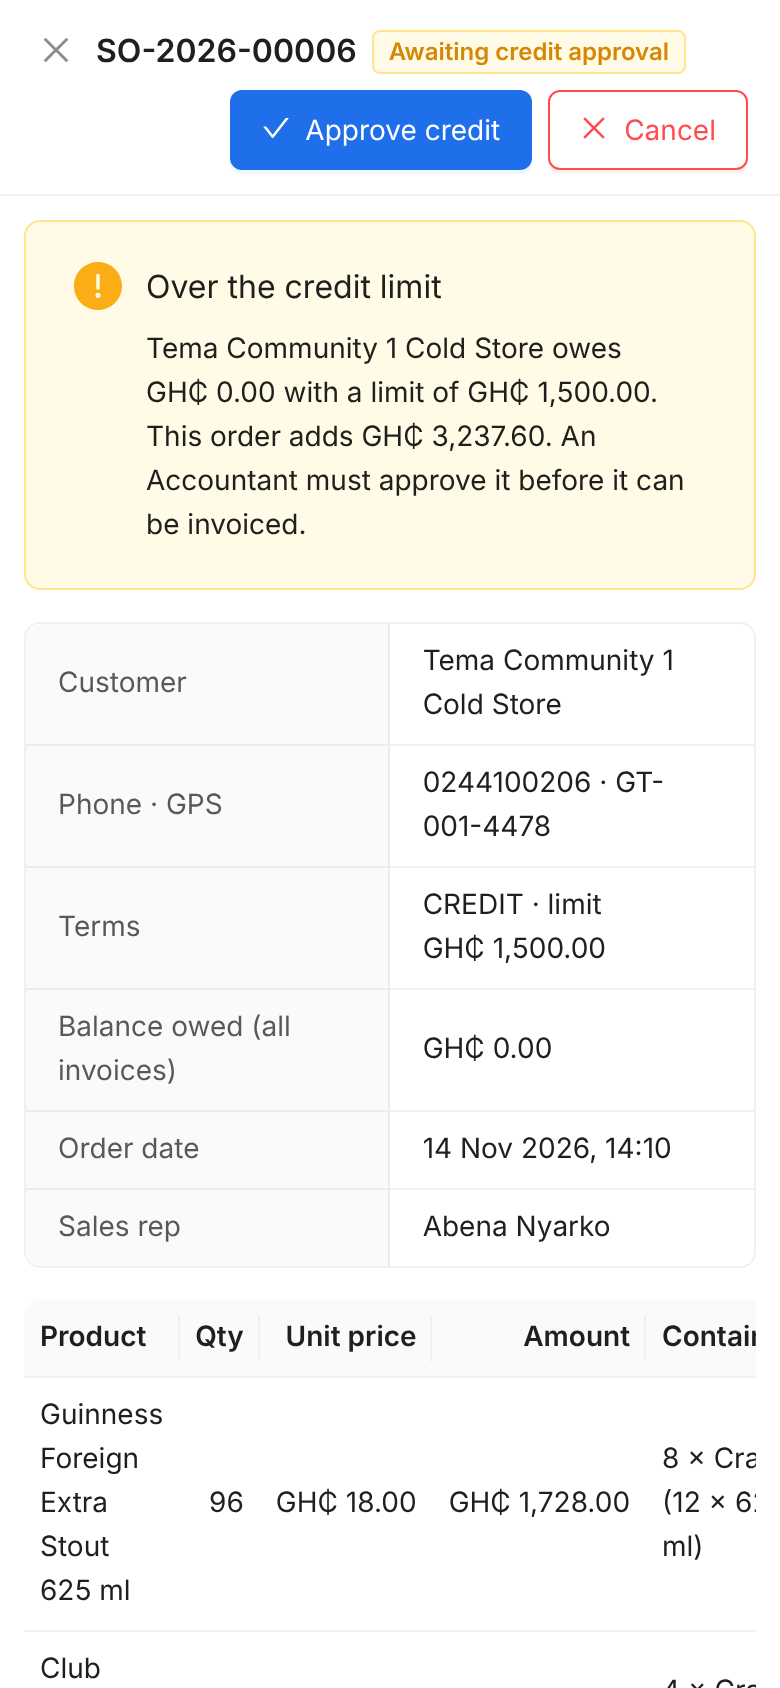
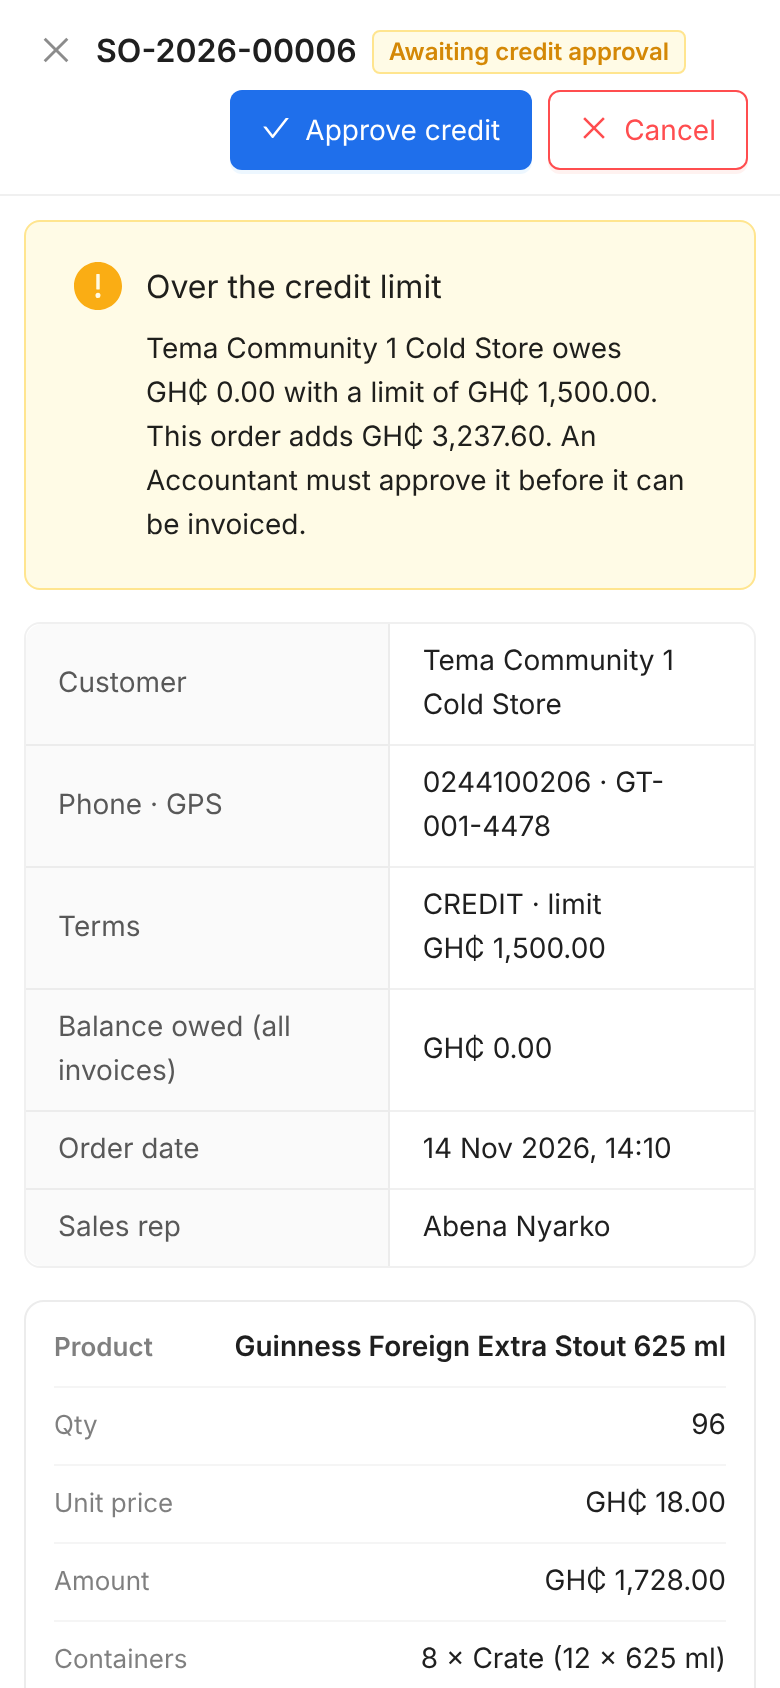
Tables become cards on phones
- components/ResponsiveTable.tsx wraps Ant Design's Table and labels every cell with
  its column title; all 19 screens with tables use it
- On phones (under 576 px) each row is a card: the first value is the heading and every
  other value sits on its own labelled line; action buttons sit at the bottom right;
  fields (delivery quantities, stocktake counts, order lines) fit inside the cards;
  expanded rows and totals rows read as part of the card
- Search boxes and filter rows fit the screen
- Tablets and laptops keep ordinary tables

diff --git a/frontend/src/index.css b/frontend/src/index.css
@@ -52,6 +52,11 @@ body { margin: 0; background: #f5f6f8; }
   /* Totals boxes fill the width instead of floating right */
   .ant-descriptions { max-width: 100% !important; }
 
+  /* Search boxes and filter rows fit the screen */
+  .ant-input-search, .ant-input-group-wrapper, .ant-input-affix-wrapper { max-width: 100%; }
+  .ant-card-body > .ant-space, .ant-card-body > div > .ant-space { flex-wrap: wrap; max-width: 100%; }
+  .ant-space-item { max-width: 100%; min-width: 0; }
+
   /* Rows of fields inside a panel (a product and its quantity) wrap onto two lines */
   .ant-drawer-body .ant-space-horizontal { flex-wrap: wrap; }
   .ant-drawer-body .ant-select,
@@ -67,3 +72,67 @@ body { margin: 0; background: #f5f6f8; }
 /* Panels waiting off-screen must not widen the page either. "clip" (unlike
    "hidden") doesn't turn the page into a scroll box, so the sticky header still works. */
 html, body { overflow-x: hidden; overflow-x: clip; }
+
+/* ------------------------------------------------- tables become cards on phones
+   Each row is a card; each value sits on its own line, labelled with its column
+   title (data-label, added by components/ResponsiveTable.tsx). */
+@media (max-width: 575px) {
+  .rt-cards .ant-table { background: transparent; }
+  .rt-cards .ant-table-thead { display: none; }
+  .rt-cards .ant-table-content,
+  .rt-cards .ant-table-body { overflow: visible !important; }
+  .rt-cards table { min-width: 0 !important; width: 100% !important; table-layout: auto !important; }
+  .rt-cards table, .rt-cards tbody, .rt-cards tfoot { display: block; }
+  .rt-cards colgroup { display: none; }
+
+  .rt-cards tr.ant-table-row,
+  .rt-cards .ant-table-summary tr {
+    display: block;
+    background: #fff;
+    border: 1px solid #ececec;
+    border-radius: 10px;
+    padding: 4px 14px;
+    margin-bottom: 10px;
+  }
+  .rt-cards tr.ant-table-row > td,
+  .rt-cards .ant-table-summary td {
+    display: flex !important;
+    align-items: center;
+    justify-content: space-between;
+    gap: 12px;
+    padding: 8px 0 !important;
+    border-bottom: 1px solid #f5f5f5 !important;
+    text-align: right !important;
+    white-space: normal;
+    min-width: 0 !important;
+    width: auto !important;
+    background: transparent !important;
+  }
+  .rt-cards tr.ant-table-row > td:last-child { border-bottom: none !important; }
+  .rt-cards tr.ant-table-row > td[data-label]:not([data-label=""])::before {
+    content: attr(data-label);
+    color: rgba(0, 0, 0, 0.5);
+    font-size: 13px;
+    text-align: left;
+    flex: 0 0 auto;
+    max-width: 45%;
+  }
+  /* The first value (order number, product, customer …) is the card's heading */
+  .rt-cards tr.ant-table-row > td:first-child { font-weight: 600; }
+  /* Cells with no column title (edit buttons, actions) sit at the right */
+  .rt-cards tr.ant-table-row > td[data-label=""] { justify-content: flex-end; }
+  .rt-cards tr.ant-table-row > td:empty { display: none !important; }
+  /* Fields inside a card (quantities on a delivery, counts on a stocktake) */
+  .rt-cards tr.ant-table-row > td .ant-input-number,
+  .rt-cards tr.ant-table-row > td .ant-select { flex: 0 1 60%; min-width: 0; }
+  .rt-cards tr.ant-table-row > td .ant-form-item { margin: 0; flex: 0 1 60%; }
+  .rt-cards tr.ant-table-row > td .ant-form-item .ant-input-number,
+  .rt-cards tr.ant-table-row > td .ant-form-item .ant-select { width: 100% !important; }
+  /* Expanded rows (write-off details) read as the bottom of their card */
+  .rt-cards tr.ant-table-expanded-row { display: block; margin: -10px 0 10px; }
+  .rt-cards tr.ant-table-expanded-row > td { display: block; padding: 10px 14px !important; }
+  .rt-cards .ant-table-row-expand-icon-cell::before { content: 'Details' !important; }
+  .rt-cards .ant-table-tbody > tr.ant-table-placeholder { display: block; }
+  .rt-cards .ant-table-tbody > tr.ant-table-placeholder > td { display: block; }
+  .rt-cards .ant-table-pagination { justify-content: center; }
+}

diff --git a/frontend/src/components/ResponsiveTable.tsx b/frontend/src/components/ResponsiveTable.tsx
@@ -1,0 +1,41 @@
+// One table for every screen. On laptops and tablets it is an ordinary table; on a
+// phone (index.css, max-width 575px) each row becomes a card, and every value is
+// labelled with its column's title. Pages use it exactly like Ant Design's Table.
+import { Table as AntTable } from 'antd';
+import type { TableProps } from 'antd';
+import type { ColumnType } from 'antd/es/table';
+
+/** The column's title as plain text, for the label in the phone card. */
+const labelOf = (title: unknown): string => {
+  if (typeof title === 'string' || typeof title === 'number') return String(title);
+  return '';
+};
+
+function withLabels<T>(columns: TableProps<T>['columns']): TableProps<T>['columns'] {
+  return columns?.map((col) => {
+    const c = col as ColumnType<T> & { children?: unknown[] };
+    if (c.children) return { ...c, children: withLabels(c.children as TableProps<T>['columns']) } as typeof col;
+    const label = labelOf(c.title);
+    const own = c.onCell;
+    return {
+      ...c,
+      onCell: (record: T, index?: number) => ({ ...(own ? own(record, index) : {}), 'data-label': label }) as any,
+    } as typeof col;
+  });
+}
+
+function ResponsiveTable<T extends object>(props: TableProps<T>) {
+  const { columns, className, ...rest } = props;
+  return <AntTable<T> {...rest} columns={withLabels(columns)} className={['rt-cards', className].filter(Boolean).join(' ')} />;
+}
+
+// Keep Table.Summary, Table.Column … available, as with Ant Design's Table.
+const Table = Object.assign(ResponsiveTable, {
+  Summary: AntTable.Summary,
+  Column: AntTable.Column,
+  ColumnGroup: AntTable.ColumnGroup,
+  SELECTION_ALL: AntTable.SELECTION_ALL,
+  EXPAND_COLUMN: AntTable.EXPAND_COLUMN,
+});
+
+export default Table;

diff --git a/frontend/src/pages/operations/VansPage.tsx b/frontend/src/pages/operations/VansPage.tsx
@@ -1,23 +1,5 @@
-import {
-  Alert,
-  Badge,
-  Button,
-  Card,
-  Col,
-  Descriptions,
-  Drawer,
-  Form,
-  Input,
-  InputNumber,
-  Row,
-  Select,
-  Space,
-  Switch,
-  Table,
-  Tag,
-  Typography,
-  message,
-} from 'antd';
+import { Alert, Badge, Button, Card, Col, Descriptions, Drawer, Form, Input, InputNumber, Row, Select, Space, Switch, Tag, Typography, message } from 'antd';
+import Table from '../../components/ResponsiveTable';
 import { CarOutlined, CheckSquareOutlined, DeleteOutlined, EditOutlined, PlusOutlined } from '@ant-design/icons';
 import { useEffect, useMemo, useState } from 'react';
 import { get, patch, post } from '../../api/client';

diff --git a/frontend/src/pages/purchasing/ReceivingPage.tsx b/frontend/src/pages/purchasing/ReceivingPage.tsx
@@ -1,23 +1,5 @@
-import {
-  Alert,
-  Button,
-  Card,
-  Col,
-  DatePicker,
-  Descriptions,
-  Empty,
-  Form,
-  Input,
-  InputNumber,
-  List,
-  Result,
-  Row,
-  Space,
-  Table,
-  Tag,
-  Typography,
-  message,
-} from 'antd';
+import { Alert, Button, Card, Col, DatePicker, Descriptions, Empty, Form, Input, InputNumber, List, Result, Row, Space, Tag, Typography, message } from 'antd';
+import Table from '../../components/ResponsiveTable';
 import { InboxOutlined } from '@ant-design/icons';
 import dayjs from 'dayjs';
 import { useEffect, useState } from 'react';

diff --git a/frontend/src/pages/operations/StocktakePage.tsx b/frontend/src/pages/operations/StocktakePage.tsx
@@ -1,4 +1,5 @@
-import { Alert, Button, Card, Col, Drawer, Form, InputNumber, Modal, Popconfirm, Row, Select, Space, Statistic, Table, Tag, Typography, message } from 'antd';
+import { Alert, Button, Card, Col, Drawer, Form, InputNumber, Modal, Popconfirm, Row, Select, Space, Statistic, Tag, Typography, message } from 'antd';
+import Table from '../../components/ResponsiveTable';
 import { PlusOutlined, SaveOutlined } from '@ant-design/icons';
 import { useEffect, useState } from 'react';
 import { get, patch, post } from '../../api/client';

diff --git a/frontend/src/pages/operations/BreakagesPage.tsx b/frontend/src/pages/operations/BreakagesPage.tsx
@@ -1,4 +1,5 @@
-import { Alert, Button, Card, Form, Input, InputNumber, Modal, Popconfirm, Segmented, Select, Space, Table, Tag, Typography, message } from 'antd';
+import { Alert, Button, Card, Form, Input, InputNumber, Modal, Popconfirm, Segmented, Select, Space, Tag, Typography, message } from 'antd';
+import Table from '../../components/ResponsiveTable';
 import { CheckOutlined, CloseOutlined, PlusOutlined } from '@ant-design/icons';
 import { useEffect, useState } from 'react';
 import { get, post } from '../../api/client';

diff --git a/frontend/src/pages/AdminPages.tsx b/frontend/src/pages/AdminPages.tsx
@@ -1,5 +1,6 @@
 import { dateTime } from '../format';
-import { Button, Card, Form, Input, Modal, Result, Select, Space, Switch, Table, Tag, Typography, message } from 'antd';
+import { Button, Card, Form, Input, Modal, Result, Select, Space, Switch, Tag, Typography, message } from 'antd';
+import Table from '../components/ResponsiveTable';
 import { EditOutlined, KeyOutlined, PlusOutlined } from '@ant-design/icons';
 import { useEffect, useState } from 'react';
 import { get, patch, post } from '../api/client';

diff --git a/frontend/src/pages/operations/EmptiesPage.tsx b/frontend/src/pages/operations/EmptiesPage.tsx
@@ -1,4 +1,5 @@
-import { Button, Card, Col, Form, InputNumber, Modal, Radio, Row, Select, Space, Statistic, Table, Tabs, Tag, Typography, message } from 'antd';
+import { Button, Card, Col, Form, InputNumber, Modal, Radio, Row, Select, Space, Statistic, Tabs, Tag, Typography, message } from 'antd';
+import Table from '../../components/ResponsiveTable';
 import { RollbackOutlined, ShopOutlined } from '@ant-design/icons';
 import { useEffect, useState } from 'react';
 import { get, post } from '../../api/client';

diff --git a/frontend/src/pages/purchasing/PurchaseOrderDetail.tsx b/frontend/src/pages/purchasing/PurchaseOrderDetail.tsx
@@ -1,4 +1,5 @@
-import { Alert, Button, Descriptions, Drawer, Popconfirm, Space, Table, Tag, Timeline, Typography, message } from 'antd';
+import { Alert, Button, Descriptions, Drawer, Popconfirm, Space, Tag, Timeline, Typography, message } from 'antd';
+import Table from '../../components/ResponsiveTable';
 import { CheckOutlined, CloseOutlined, EditOutlined, InboxOutlined, SendOutlined, StopOutlined } from '@ant-design/icons';
 import { useState } from 'react';
 import { post } from '../../api/client';

diff --git a/frontend/src/pages/sales/OrderForm.tsx b/frontend/src/pages/sales/OrderForm.tsx
@@ -1,4 +1,5 @@
-import { Alert, Button, Descriptions, Drawer, Form, InputNumber, Select, Space, Table, Tag, Typography, message } from 'antd';
+import { Alert, Button, Descriptions, Drawer, Form, InputNumber, Select, Space, Tag, Typography, message } from 'antd';
+import Table from '../../components/ResponsiveTable';
 import { DeleteOutlined, PlusOutlined } from '@ant-design/icons';
 import { useEffect, useMemo, useState } from 'react';
 import { get, patch, post } from '../../api/client';

diff --git a/frontend/src/pages/CustomersPage.tsx b/frontend/src/pages/CustomersPage.tsx
@@ -1,4 +1,5 @@
-import { Alert, Button, Card, Col, Form, Input, InputNumber, Modal, Row, Select, Space, Table, Tag, Typography, message } from 'antd';
+import { Alert, Button, Card, Col, Form, Input, InputNumber, Modal, Row, Select, Space, Tag, Typography, message } from 'antd';
+import Table from '../components/ResponsiveTable';
 import { EditOutlined, PlusOutlined } from '@ant-design/icons';
 import { useEffect, useState } from 'react';
 import { get, patch, post } from '../api/client';

diff --git a/frontend/src/pages/ReportsPage.tsx b/frontend/src/pages/ReportsPage.tsx
@@ -1,4 +1,5 @@
-import { Button, Card, DatePicker, InputNumber, Segmented, Select, Space, Table, Typography, message } from 'antd';
+import { Button, Card, DatePicker, InputNumber, Segmented, Select, Space, Typography, message } from 'antd';
+import Table from '../components/ResponsiveTable';
 import { FileExcelOutlined, FilePdfOutlined, ReloadOutlined } from '@ant-design/icons';
 import type { Dayjs } from 'dayjs';
 import { useEffect, useState } from 'react';
